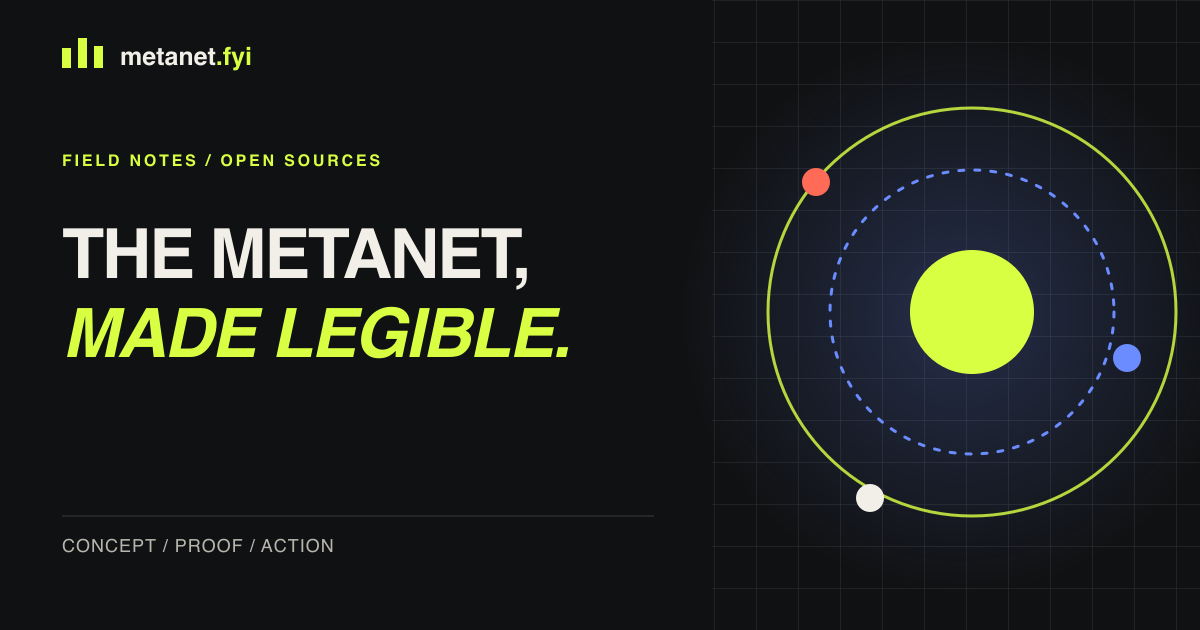
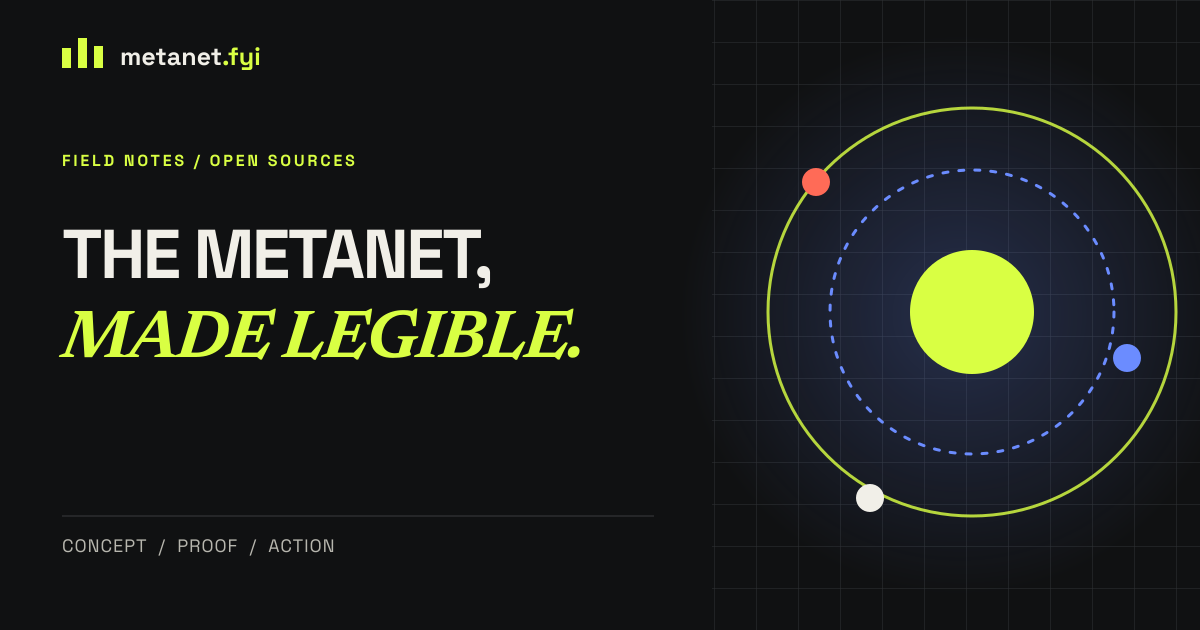
Render social card text as vector outlines

diff --git a/README.md b/README.md
@@ -27,7 +27,7 @@ The local site listens on `http://localhost:4321`. Verification includes unit/AP
 
 ## Social previews
 
-Every public route declares its own versioned 1200×630 JPEG through Open Graph, Twitter Card, standard image discovery, and schema.org metadata. `npm run build` regenerates those cards plus the legacy PNG aliases and install icons. The generator embeds the project typefaces directly into its SVG inputs before rasterizing them, so production output does not depend on fonts installed on the build runner.
+Every public route declares its own versioned 1200×630 JPEG through Open Graph, Twitter Card, standard image discovery, and schema.org metadata. `npm run build` regenerates those cards plus the legacy PNG aliases and install icons. The generator converts the pinned project typefaces into SVG glyph outlines before rasterizing them, so production output does not depend on fonts installed on—or supported by—the build runner.
 
 The test suite verifies dimensions, format, opacity, color space, byte size, cache and cross-origin headers, per-route uniqueness, and successful retrieval using Slack, X/Twitter, Facebook, LinkedIn, and Discord crawler user agents.
 
